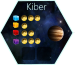
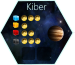
new graphics

Changed region(s): [[0.16, 0.5846, 0.2667, 0.6769]]

diff --git a/Milky/MilkyExpressTP/src/ui/grafico/PainelInfoJogador.java b/Milky/MilkyExpressTP/src/ui/grafico/PainelInfoJogador.java
@@ -1,28 +1,54 @@
 package ui.grafico;
 
+import java.awt.Color;
 import java.awt.Dimension;
+import java.awt.Font;
 import java.awt.Graphics;
 import java.awt.event.MouseEvent;
 import java.awt.event.MouseMotionListener;
 import java.awt.image.BufferedImage;
 import java.io.Serializable;
+import java.util.Observable;
+import java.util.Observer;
 
 import javax.imageio.ImageIO;
 import javax.swing.JOptionPane;
 import javax.swing.JPanel;
 
-public class PainelInfoJogador extends JPanel implements MouseMotionListener, Serializable {
+import logicajogo.Jogo;
+import logicajogo.cartas.naves.Nave;
+import logicajogo.cubos.Cubo;
+
+public class PainelInfoJogador extends JPanel implements Observer, MouseMotionListener, Serializable {
 
 	private static final long serialVersionUID = 1L;
-	private BufferedImage image;
+	private BufferedImage image, amarelo, vermelho, azul, preto, forca, cinzento;
 
-	private int sx = 200, sy = 150;
+	private int sx = 200, sy = 173;
 
-	public PainelInfoJogador() {
+	private Jogo jogo;
+
+	public PainelInfoJogador(Jogo j) {
+
+		jogo = j;
+
+		j.addObserver(this);
 
 		try {
 
-			image = ImageIO.read(getClass().getClassLoader().getResourceAsStream("Imagens/ui.png"));
+			image = ImageIO.read(getClass().getClassLoader().getResourceAsStream("Imagens/uijog.png"));
+
+			amarelo = ImageIO.read(getClass().getClassLoader().getResourceAsStream("Imagens/icuboam.png"));
+
+			vermelho = ImageIO.read(getClass().getClassLoader().getResourceAsStream("Imagens/icubovm.png"));
+
+			azul = ImageIO.read(getClass().getClassLoader().getResourceAsStream("Imagens/icuboaz.png"));
+
+			preto = ImageIO.read(getClass().getClassLoader().getResourceAsStream("Imagens/icubopt.png"));
+
+			forca = ImageIO.read(getClass().getClassLoader().getResourceAsStream("Imagens/icubopr.png"));
+
+			cinzento = ImageIO.read(getClass().getClassLoader().getResourceAsStream("Imagens/icubogr.png"));
 
 		} catch (Exception e) {
 			/* handled in paintComponent() */
@@ -40,8 +66,37 @@ public class PainelInfoJogador extends JPanel implements MouseMotionListener, Se
 	@Override
 	protected void paintComponent(Graphics g) {
 		super.paintComponent(g);
+
 		if (image != null)
 			g.drawImage(image, 0, 0, sx, sy, this);
+
+		String moedas = String.valueOf(this.jogo.consultaJogador().devolveMoedas());
+
+		g.setFont(new Font("Arial", Font.BOLD, 15));
+
+		g.setColor(Color.getHSBColor(170, 15, 100));
+
+		g.drawString(moedas, 90, 65);
+		
+		Nave nave = this.jogo.consultaJogador().obterNave();
+
+		if (nave.obterForca() == 4)
+			g.drawImage(forca, 121, 92, 15, 16, this);
+
+		if (nave.obterForca() == 5) {
+			g.drawImage(forca, 121, 92, 15, 16, this);
+			g.drawImage(forca, 141, 92, 15, 16, this);
+
+		}
+		
+		if (nave.naveCargaMaxima())
+			g.drawImage(cinzento, 131, 135, 15, 16, this);
+			
+		
+		Cubo[] carga = this.jogo.consultaJogador().obterNave().obterCarga();
+		
+		
+
 	}
 
 	@Override
@@ -53,6 +108,16 @@ public class PainelInfoJogador extends JPanel implements MouseMotionListener, Se
 	@Override
 	public void mouseMoved(MouseEvent arg0) {
 		// TODO Auto-generated method stub
+
+	}
+
+	@Override
+	public void update(Observable arg0, Object arg1) {
+		// TODO Auto-generated method stub
+
+		this.jogo = (Jogo) arg0;
+		repaint();
+		revalidate();
 
 	}
 

diff --git a/Milky/MilkyExpressTP/src/ui/grafico/VistaJogo.java b/Milky/MilkyExpressTP/src/ui/grafico/VistaJogo.java
@@ -28,7 +28,7 @@ public class VistaJogo extends JPanel implements Observer, MouseListener, MouseM
 	Jogo jogo;
 
 	private BufferedImage image;
-	PainelUiJogador areainfo = new PainelUiJogador();
+	PainelUiJogador areainfo;
 	PainelTabuleiro areamapa = new PainelTabuleiro();
 	JPanel areaopcoes = new JPanel();
 
@@ -48,6 +48,8 @@ public class VistaJogo extends JPanel implements Observer, MouseListener, MouseM
 
 		jogo = j;
 
+		areainfo = new PainelUiJogador(j);
+
 		j.addObserver(this);
 
 		// listeners
@@ -63,21 +65,21 @@ public class VistaJogo extends JPanel implements Observer, MouseListener, MouseM
 
 		// 1000-700
 
-		areainfo.setLayout(new GridLayout(3, 1));
-		areainfo.setPreferredSize(new Dimension(250, 600));
-		areainfo.setMaximumSize(new Dimension(250, 600));
+		areainfo.setLayout(new GridLayout(3, 1,0,0));
+		areainfo.setPreferredSize(new Dimension(200, 700));
+		areainfo.setMaximumSize(new Dimension(200, 700));
 
 		areamapa.setLayout(new GridLayout(3, 1));
-		areamapa.setPreferredSize(new Dimension(750, 600));
-		areamapa.setMaximumSize(new Dimension(750, 600));
+		areamapa.setPreferredSize(new Dimension(750, 700));
+		areamapa.setMaximumSize(new Dimension(750, 700));
 
 		areaopcoes.setLayout(new GridLayout(1, 3));
-		areaopcoes.setPreferredSize(new Dimension(1000, 150));
-		areaopcoes.setMaximumSize(new Dimension(1000, 150));
+		areaopcoes.setPreferredSize(new Dimension(1000, 100));
+		areaopcoes.setMaximumSize(new Dimension(1000, 100));
 
-		areainfo.setBorder(BorderFactory.createLineBorder(Color.cyan));
-		areaopcoes.setBorder(BorderFactory.createLineBorder(Color.cyan));
-		areamapa.setBorder(BorderFactory.createLineBorder(Color.cyan));
+//		areainfo.setBorder(BorderFactory.createLineBorder(Color.lightGray));
+//		areaopcoes.setBorder(BorderFactory.createLineBorder(Color.lightGray));
+//		areamapa.setBorder(BorderFactory.createLineBorder(Color.lightGray));
 
 		this.add(areainfo, BorderLayout.WEST);
 		this.add(areamapa, BorderLayout.CENTER);

diff --git a/Milky/MilkyExpressTP/src/ui/grafico/PainelUiJogador.java b/Milky/MilkyExpressTP/src/ui/grafico/PainelUiJogador.java
@@ -1,18 +1,31 @@
 package ui.grafico;
 
+import java.awt.Dimension;
 import java.awt.event.MouseEvent;
 import java.awt.event.MouseMotionListener;
 import java.io.Serializable;
 
 import javax.swing.JPanel;
 
+import logicajogo.Jogo;
+
 public class PainelUiJogador extends JPanel implements MouseMotionListener, Serializable {
 
 	private static final long serialVersionUID = 1L;
-	public PainelUiJogador() {
 
-		add(new PainelInfoJogador());
+	public PainelUiJogador(Jogo j) {
+
+		this.setAlignmentX(BOTTOM_ALIGNMENT);
+		this.setAlignmentY(CENTER_ALIGNMENT);
+
+		JPanel dummy = new JPanel();
+		dummy.setOpaque(true);
+		dummy.setVisible(false);
+
+		add(new PainelInfoJogador(j));
 		add(new PainelInfoPlaneta());
+		
+		add(dummy);
 
 		setOpaque(false);
 		setVisible(true);

diff --git a/Milky/MilkyExpressTP/src/ui/grafico/PainelInfoPlaneta.java b/Milky/MilkyExpressTP/src/ui/grafico/PainelInfoPlaneta.java
@@ -16,7 +16,7 @@ public class PainelInfoPlaneta extends JPanel implements MouseMotionListener, Se
 	private static final long serialVersionUID = 1L;
 	private BufferedImage image;
 
-	private int sx = 200, sy = 150;
+	private int sx = 200, sy = 173;
 
 	public PainelInfoPlaneta() {
 
